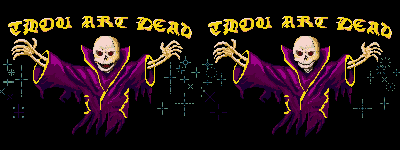
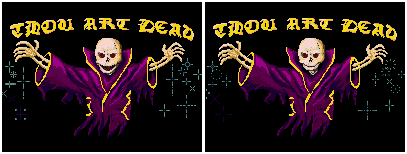
Add main menu animation

Changed region(s): [[0.0, 0.0, 1.0, 1.0], [0.6, 0.5867, 0.63, 0.6667]]

diff --git a/src/scenes/Load.js b/src/scenes/Load.js
@@ -8,6 +8,7 @@ class Load extends Phaser.Scene {
         this.load.image('ground', './assets/sprites/Ground.png')
 
         // Load Aseprite Sheets
+        this.load.aseprite('menu', './assets/screens/Main Menu.png', './assets/screens/Main Menu.json')
         this.load.aseprite('player', './assets/sprites/Player.png', './assets/sprites/Player.json')
         this.load.aseprite('golem', './assets/sprites/Golem.png', './assets/sprites/Golem.json')
         this.load.aseprite('zombie', './assets/sprites/Zombie.png', './assets/sprites/Zombie.json')
@@ -16,6 +17,7 @@ class Load extends Phaser.Scene {
 
     create() {
         // Create Animations
+        this.anims.createFromAseprite('menu')
         this.anims.createFromAseprite('player')
         this.anims.createFromAseprite('golem')
         this.anims.createFromAseprite('zombie')

diff --git a/src/scenes/Menu.js b/src/scenes/Menu.js
@@ -8,10 +8,34 @@ class Menu extends Phaser.Scene {
     }
 
     create() {
+        this.menu = this.add.sprite(0, 0, 'menu').setScale(4).setOrigin(0, 0).setFrame(1)
 
+        this.clock = this.time.addEvent({
+            delay: 500,
+            loop: true,
+            callback: this.laughEvent(),
+            callbackScope: this
+        })
+
+        this.menu.on('animationcomplete', () => {
+            this.menu.setFrame(1)
+            this.laughEvent()
+        }, this)
+
+        this.input.keyboard.on('keydown', () => {
+            this.scene.start('playScene')
+        }, this)
     }
 
     update() {
-        this.scene.start('playScene')
+        
+    }
+
+    laughEvent() {
+        this.menu.play({
+            key: 'Laugh',
+            repeat: 3,
+            delay: 500
+        }, false)
     }
 }
